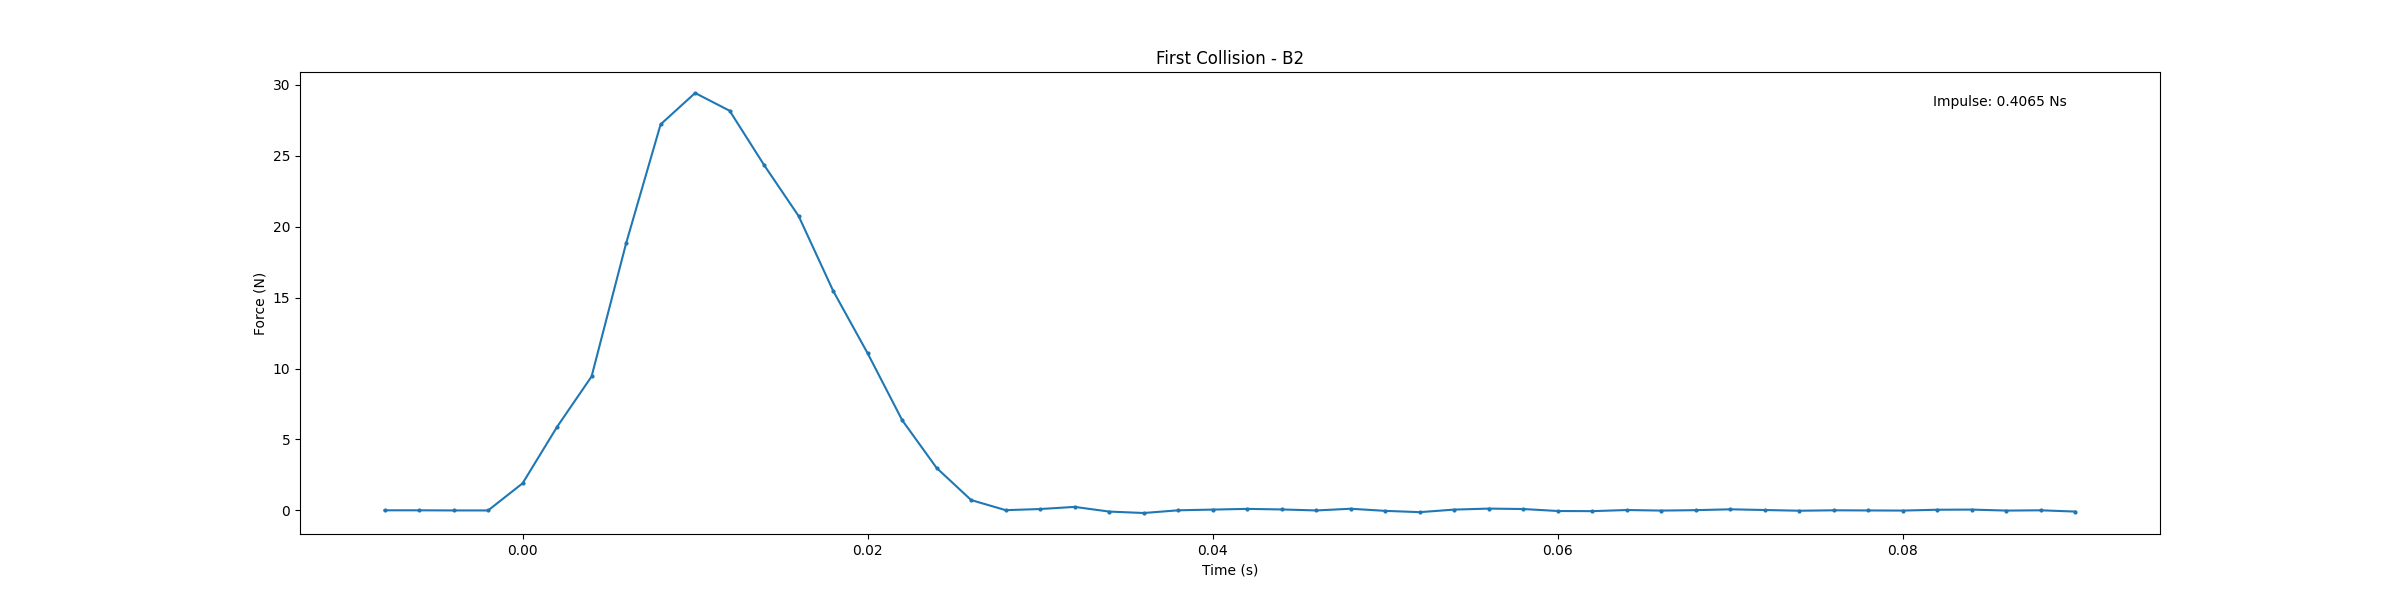
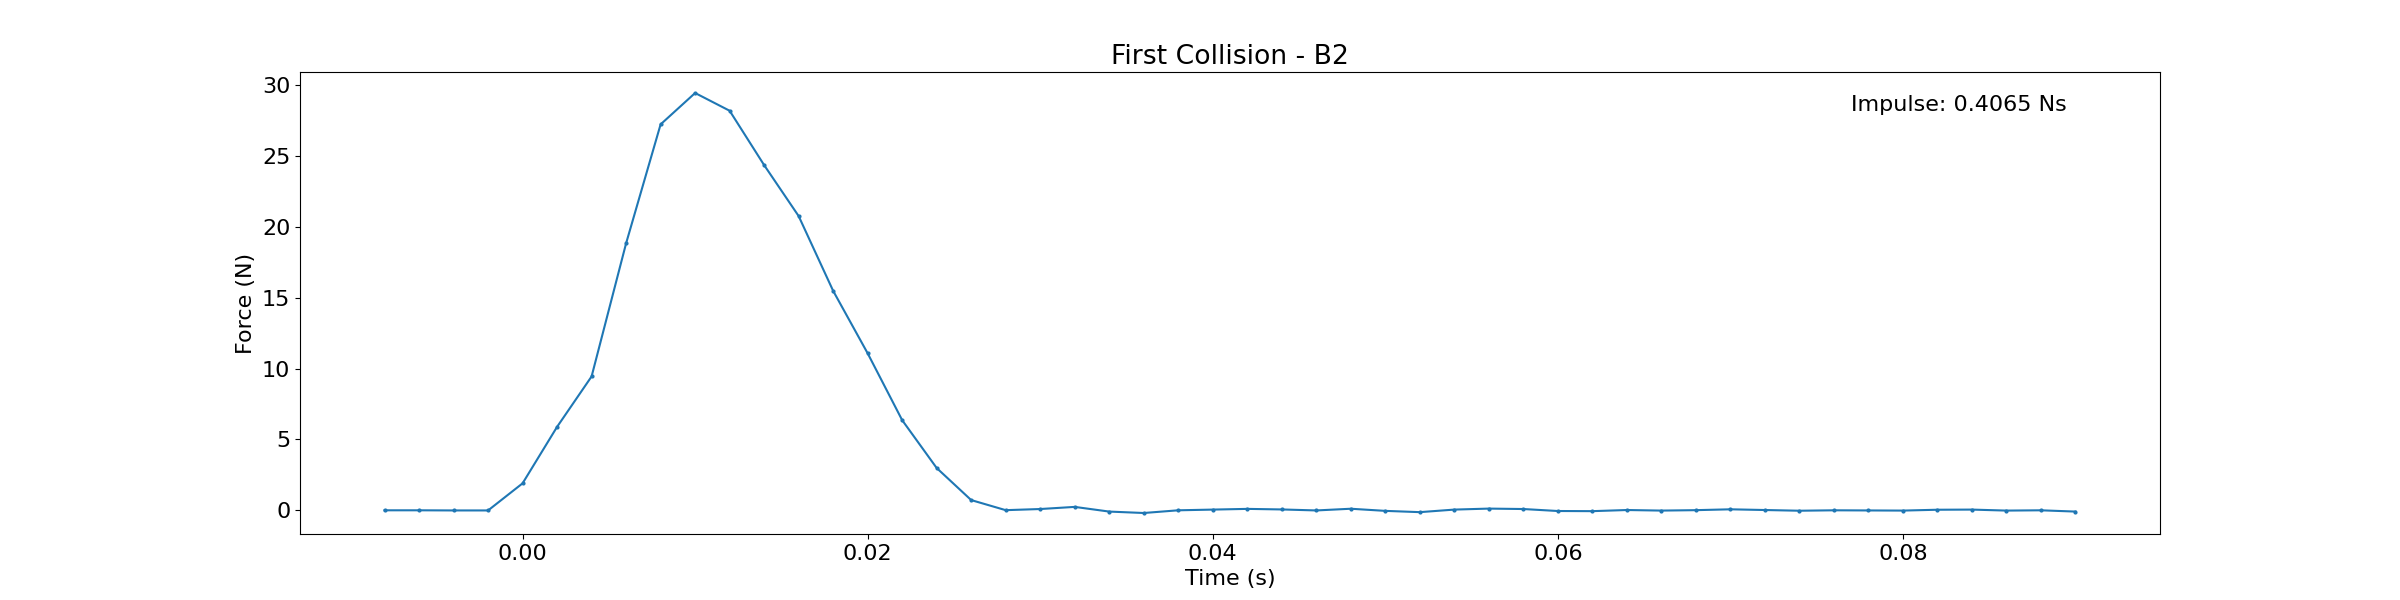
Futher commit

diff --git a/graph.py b/graph.py
@@ -15,6 +15,9 @@ PEAK_HEIGHT_THRESHOLD = 0.07 # Default: 0.07
 # Specify the polynomial degree
 DEGREE = 3
 
+# Specify the font size
+FONTSIZE = 16
+
 # Specify the enlarged plot sample size
 TIME_RANGE = 0.03 # Default: 0.1
 
@@ -25,6 +28,9 @@ TIME_RANGE = 0.03 # Default: 0.1
 
 runs = ['A1', 'A2', 'A3', 'B1', 'B2', 'B3', 'Control 1', 'Control 2', 'Control 3']
 plots = []
+
+# Set the font size for the plot
+plt.rcParams.update({'font.size': FONTSIZE})
 
 output_folder = "output_plots"
 os.makedirs(output_folder, exist_ok=True)  # Create the output folder if it doesn't exist
@@ -56,20 +62,30 @@ for run in runs:
     peak_times = run_data[f"Time (s) {run}"][peaks]
     peak_forces = run_data[f"Force (N) {run}"][peaks]
 
-    # Create a polynomial trendline using numpy.polyfit()
-    last_peak_index = peaks[-1]
-    coefficients = np.polyfit(peak_times[:last_peak_index+1], peak_forces[:last_peak_index+1], DEGREE)
-    trendline = np.polyval(coefficients, run_data[f"Time (s) {run}"].values)
+    # # Filter out NaN values from the force data
+    # valid_force_values = run_data[f"Force (N) {run}"].values
+    # valid_force_values = valid_force_values[~np.isnan(valid_force_values)]
     
-    # Get the equation of the polynomial
-    equation = np.poly1d(coefficients)
+    # # Filter out NaN values from the force data
+    # valid_force_values = run_data[f"Force (N) {run}"].values
+    # valid_force_values = valid_force_values[~np.isnan(valid_force_values)]
+    
+    # # Fit the exponential trendline using logarithmic transformation
+    # force_values_log = np.log(valid_force_values)
+    # coefficients = np.polyfit(run_data[f"Time (s) {run}"], force_values_log, DEGREE)
+    
+    # # Generate trendline values for the given time range
+    # trendline_time = np.linspace(run_data[f"Time (s) {run}"].min(), run_data[f"Time (s) {run}"].max(), len(run_data))
+    # trendline_log = np.polyval(coefficients, trendline_time)
+    # trendline = np.exp(trendline_log)
+    
+    # # Get the equation of the polynomial
+    # a = np.exp(coefficients[0])
+    # b = coefficients[1]
+    # equation = r"Trendline Equation: $y = {:.4f} \cdot e^{{ {:.4f} \cdot t }}$".format(a, b)
 
-    # Plot the trendline
-    plt.plot(run_data[f"Time (s) {run}"], trendline, color='red')
-
-    # Set the x-axis tick locations and labels
-    # x_ticks = np.arange(run_data[f"Time (s) {run}"].min(), run_data[f"Time (s) {run}"].max() + 1.008, 1.008)  # Adjust the interval as needed
-    # plt.xticks(x_ticks)
+    # # Plot the trendline
+    # plt.plot(run_data[f"Time (s) {run}"], trendline, color='red')
 
     # Calculate total impulse for each bump
     total_impulse = 0.0
@@ -85,18 +101,18 @@ for run in runs:
     rounded_impulse = round(total_impulse, 4)
 
     # Create the equation string with LaTeX formatting for superscripts
-    equation_parts = [f"{round(coefficients[i], 2)}t^{{{DEGREE-i}}}" for i in range(DEGREE+1)]
-    equation = r"Trendline Equation: $y = " + "+".join(equation_parts) + r"$"
+    # equation_parts = [f"{round(coefficients[i], 2)}t^{{{DEGREE-i}}}" for i in range(DEGREE+1)]
+    # equation = r"Trendline Equation: $y = " + "+".join(equation_parts) + r"$"
     impulse_text = f"Total Impulse: {rounded_impulse} Ns"
 
     # Add the equation and the total impulse to the graph
-    plt.text(0.95, 0.95, equation, color='red', transform=plt.gca().transAxes, fontsize=10, ha='right', va='top')
+    # plt.text(0.95, 0.95, equation, color='red', transform=plt.gca().transAxes, fontsize=10, ha='right', va='top')
     plt.text(0.95, 0.85, impulse_text, color='black', transform=plt.gca().transAxes, fontsize=10, ha='right', va='top')
     
     # Add plot to list of plots
     plots.append(plt)
 
-     # Create an enlarged plot of the first collision
+    # Create an enlarged plot of the first collision
     if len(peaks) > 0:
         first_collision_index = peaks[0]
         time_range = TIME_RANGE  # Adjust the time range here (in seconds)
@@ -125,7 +141,7 @@ for run in runs:
 
         # Add the impulse information to the plot
         impulse_text = f"Impulse: {rounded_impulse} Ns"
-        ax.text(0.95, 0.95, impulse_text, color='black', transform=ax.transAxes, fontsize=10, ha='right', va='top')
+        ax.text(0.95, 0.95, impulse_text, color='black', transform=ax.transAxes, fontsize=FONTSIZE, ha='right', va='top')
 
         # Save the enlarged plot as an image file
         output_file = os.path.join(output_folder, f"{run}_enlarged_plot.png")
@@ -145,6 +161,3 @@ for run in runs:
     
     print(f"Saved plot for {run} to {output_file}")
 
-# # Show all of the plots
-# for plt in plots:
-#     plt.show()
